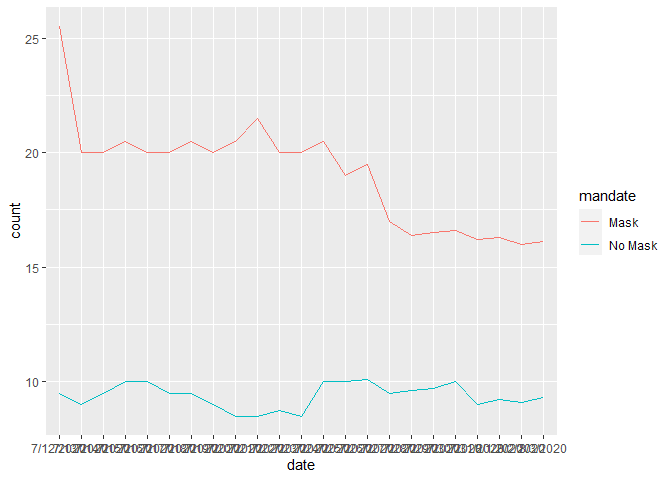
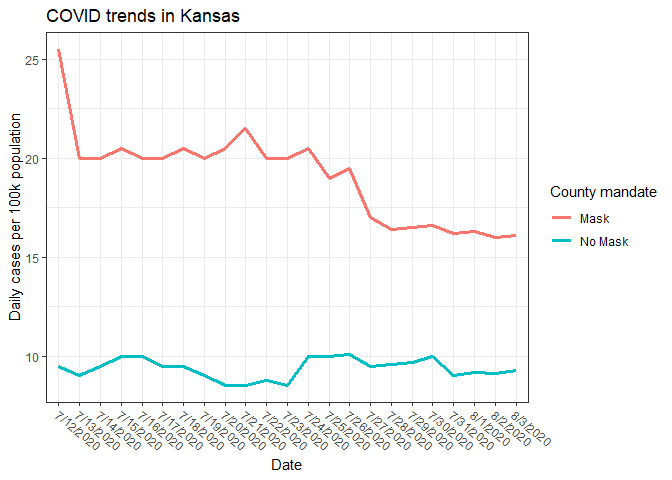
Mostly done!

diff --git a/lab-07.md b/lab-07.md
@@ -9,6 +9,16 @@ Ben Hardin
 library(tidyverse) 
 ```
 
+The original graph is extremely misleading because the two groups (Mask
+vs. No Mask) are charted on different y axes with totally different
+scales. As a result, 21 cases for a county with a mask mandate is
+represented at the same point in the plot as 10 cases for a county with
+no mask mandate. This makes it look like both kinds of counties had
+roughly the same number of daily cases, but then the number of cases in
+Masked counties decreased to be substantially lower than the number of
+cases in Un-Masked counties, although this is not what the actual
+numbers show.
+
 ### Exercise 1
 
 ``` r
@@ -67,7 +77,31 @@ covid <- tribble(
 
 ``` r
 ggplot(covid, aes(x = date, y = count, group = mandate, color = mandate))+
-  geom_line()
+  geom_line(linewidth = 1.1)+
+  theme_bw()+
+  theme(axis.text.x = element_text(angle = -40, hjust = -0.05))+
+  labs(title = "COVID trends in Kansas",
+       y = "Daily cases per 100k population",
+       x = "Date",
+       color = "County mandate")
 ```
 
 ![](lab-07_files/figure-gfm/new-viz-1.png)<!-- -->
+
+### Exercise 3
+
+Compared to the original visualization, this plot more effectively (and
+honestly) shows that the counties with no mask mandate have relatively
+low and consistent rates of COVID cases; whereas, the counties with mask
+mandates have relatively high COVID rates that decrease over time,
+although they remain higher than for those with no mask mandate.
+
+### Exercise 4
+
+What the graph tells us is that COVID rates were consistently low in
+counties with no mask mandates, and were relatively higher, but
+decreased over time in counties with mask mandates. One likely
+explanation for this result is that counties that had higher rates of
+COVID to start with were the ones that instituted mask mandates, and
+those mask mandates have been somewhat effective at reducing the rates
+of COVID in those counties.
